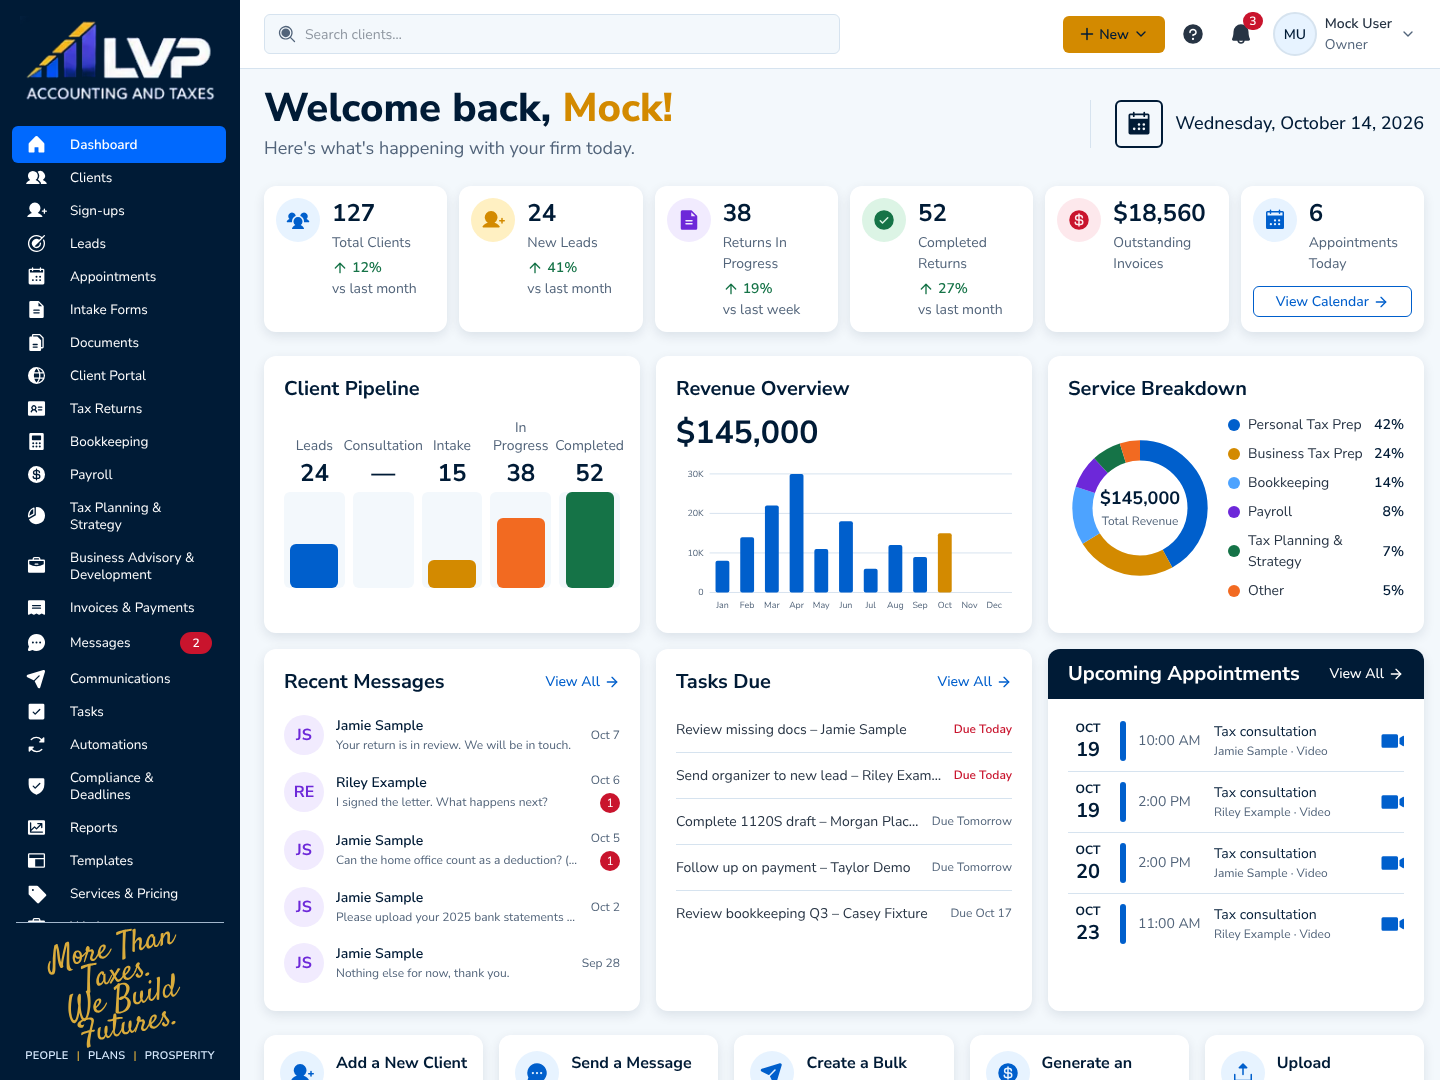
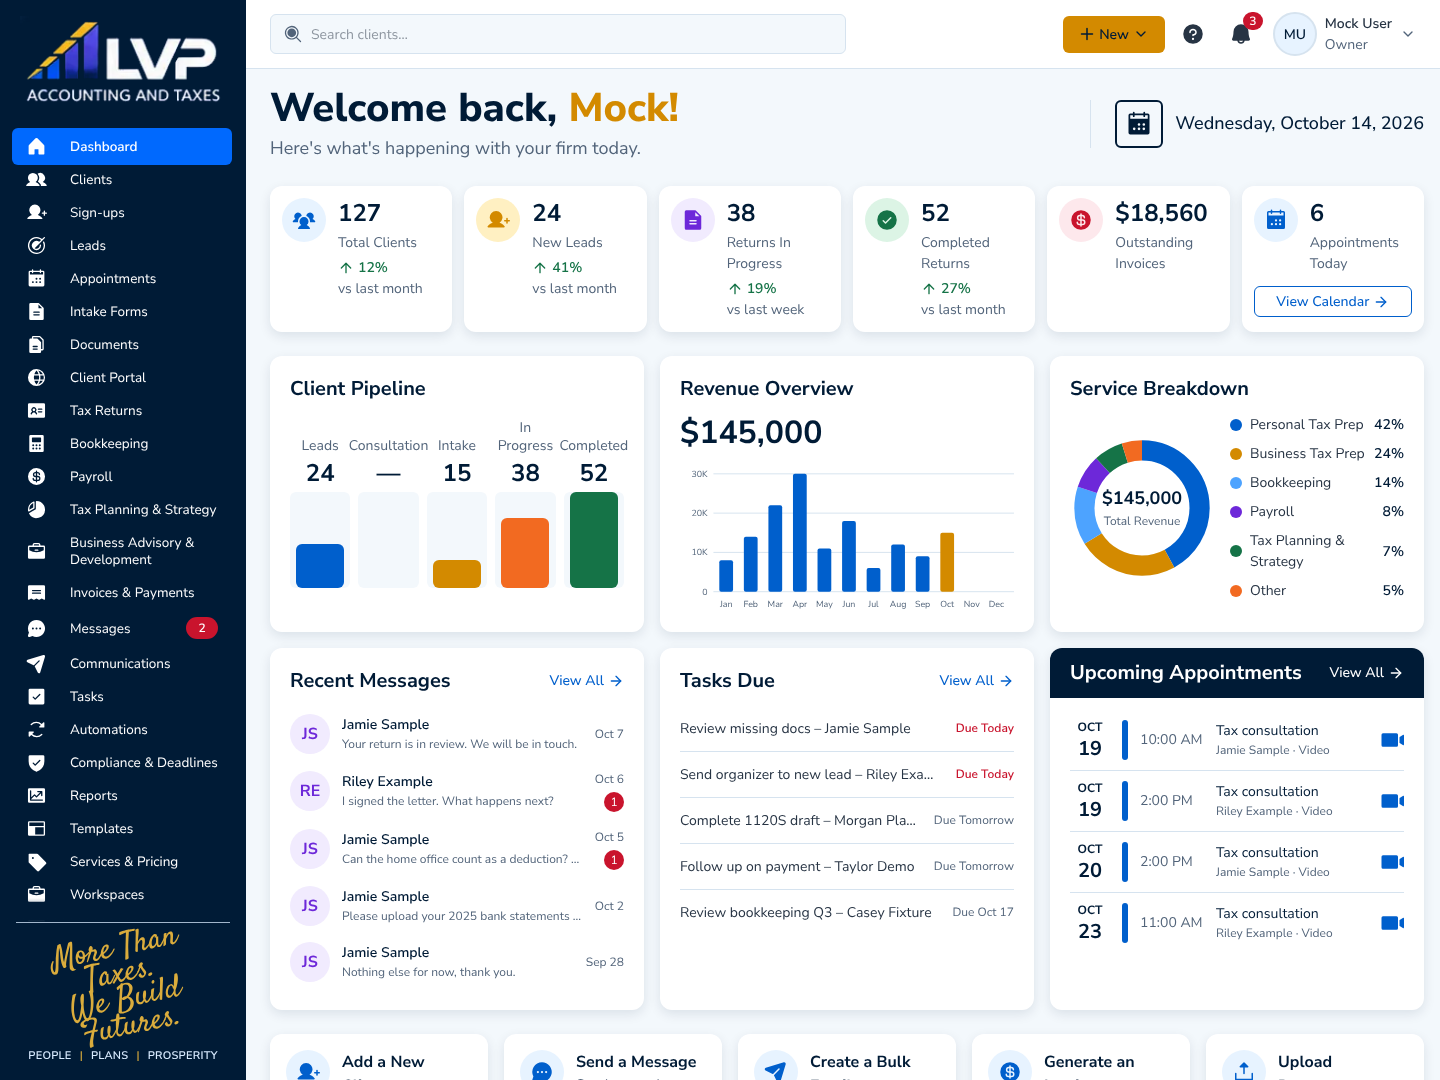
fix: firm sidebar width and scrollbar (R33)
The firm sidebar is 246 px wide, the design's width, so "Tax Planning &
Strategy" and "Compliance & Deadlines" fit on one line. The menu's
scrollbar is hidden (the menu still scrolls by wheel, trackpad, touch and
keyboard) and a 24 px fade at its bottom edge shows while items are below.

diff --git a/apps/web/src/components/app-shell/sidebar.tsx b/apps/web/src/components/app-shell/sidebar.tsx
@@ -4,6 +4,7 @@ import { ChevronDown, LogOut } from 'lucide-react';
 import Image from 'next/image';
 import Link from 'next/link';
 import { usePathname } from 'next/navigation';
+import { useEffect, useRef, useState } from 'react';
 import { useMe } from '../signed-in';
 import firmivraLogoWhite from './firmivra-logo-white.png';
 import { initials, isActive, type NavSections } from './types';
@@ -45,10 +46,28 @@ export function Sidebar({
 }) {
   const pathname = usePathname();
   const { me, signOut } = useMe();
+  // The menu's scrollbar is hidden (it looked wrong next to the navy menu), so a soft fade at its
+  // bottom edge shows while more items are below.
+  const menuRef = useRef<HTMLDivElement>(null);
+  const [moreBelow, setMoreBelow] = useState(false);
+  useEffect(() => {
+    const menu = menuRef.current;
+    if (!menu) return;
+    const update = () => setMoreBelow(menu.scrollTop + menu.clientHeight < menu.scrollHeight - 1);
+    update();
+    menu.addEventListener('scroll', update, { passive: true });
+    const observer = new ResizeObserver(update);
+    observer.observe(menu);
+    for (const child of menu.children) observer.observe(child);
+    return () => {
+      menu.removeEventListener('scroll', update);
+      observer.disconnect();
+    };
+  }, [sections]);
   return (
     <nav
       aria-label="Main"
-      className={`flex h-full flex-col bg-brand-900 text-white ${brand ? 'w-60' : 'w-72'}`}
+      className={`flex h-full flex-col bg-brand-900 text-white ${brand ? 'w-61.5' : 'w-72'}`}
     >
       {brand ? (
         <div className="shrink-0 px-5 pb-5 pt-4">
@@ -85,77 +104,87 @@ export function Sidebar({
         </div>
       )}
 
-      <div
-        data-testid="sidebar-menu"
-        className={`flex min-h-0 flex-1 flex-col gap-2 overflow-y-auto ${brand ? 'py-1' : ''}`}
-      >
-        {sections.map((items, i) => (
-          <ul
-            key={items[0]?.label ?? 'group'}
-            className={`flex flex-col ${brand ? '' : 'gap-0.5'} ${i > 0 ? 'relative mt-2 pt-4 before:absolute before:inset-x-6 before:top-0 before:border-t before:border-platform-navy-raised' : ''}`}
-          >
-            {items.map((item) => {
-              const Icon = item.icon;
-              const body = (
-                <>
-                  <Icon
-                    aria-hidden
-                    className={`shrink-0 ${brand ? 'size-[21px] -my-0.5' : 'size-6'}`}
-                  />
-                  <span className={`min-w-0 flex-1 ${brand ? '' : 'whitespace-nowrap'}`}>
-                    {item.label}
-                  </span>
-                  {item.soon ? (
-                    <span className="shrink-0 rounded-pill bg-platform-navy-raised px-2 py-0.5 text-xs text-brand-100">
-                      Soon
+      <div className="relative flex min-h-0 flex-1 flex-col">
+        <div
+          ref={menuRef}
+          data-testid="sidebar-menu"
+          className={`flex min-h-0 flex-1 flex-col gap-2 overflow-y-auto [scrollbar-width:none] [&::-webkit-scrollbar]:hidden ${brand ? 'py-1' : ''}`}
+        >
+          {sections.map((items, i) => (
+            <ul
+              key={items[0]?.label ?? 'group'}
+              className={`flex flex-col ${brand ? '' : 'gap-0.5'} ${i > 0 ? 'relative mt-2 pt-4 before:absolute before:inset-x-6 before:top-0 before:border-t before:border-platform-navy-raised' : ''}`}
+            >
+              {items.map((item) => {
+                const Icon = item.icon;
+                const body = (
+                  <>
+                    <Icon
+                      aria-hidden
+                      className={`shrink-0 ${brand ? 'size-[21px] -my-0.5' : 'size-6'}`}
+                    />
+                    <span className={`min-w-0 flex-1 ${brand ? '' : 'whitespace-nowrap'}`}>
+                      {item.label}
                     </span>
-                  ) : null}
-                  {item.badge ? (
-                    <span
-                      className={`min-w-8 shrink-0 rounded-pill px-2 py-0.5 text-center text-xs font-semibold ${brand ? 'bg-danger' : 'bg-brand-500'}`}
+                    {item.soon ? (
+                      <span className="shrink-0 rounded-pill bg-platform-navy-raised px-2 py-0.5 text-xs text-brand-100">
+                        Soon
+                      </span>
+                    ) : null}
+                    {item.badge ? (
+                      <span
+                        className={`min-w-8 shrink-0 rounded-pill px-2 py-0.5 text-center text-xs font-semibold ${brand ? 'bg-danger' : 'bg-brand-500'}`}
+                      >
+                        {item.badge}
+                      </span>
+                    ) : null}
+                  </>
+                );
+                const row = `flex items-center ${brand ? 'gap-5.75 px-3.5 py-2.5 text-[13.5px] leading-[17px]' : 'gap-2.5 px-6 py-3 text-base'}`;
+                if (!item.href) {
+                  return (
+                    <li
+                      key={item.label}
+                      aria-disabled="true"
+                      className={`${row} text-brand-100 ${brand ? '-my-0.5' : ''}`}
                     >
-                      {item.badge}
-                    </span>
-                  ) : null}
-                </>
-              );
-              const row = `flex items-center ${brand ? 'gap-5.75 px-3.5 py-2.5 text-[13.5px] leading-[17px]' : 'gap-2.5 px-6 py-3 text-base'}`;
-              if (!item.href) {
+                      {body}
+                    </li>
+                  );
+                }
+                const active = isActive(pathname, item.href);
                 return (
-                  <li
-                    key={item.label}
-                    aria-disabled="true"
-                    className={`${row} text-brand-100 ${brand ? '-my-0.5' : ''}`}
-                  >
-                    {body}
+                  <li key={item.label} className={brand ? '-my-0.5' : undefined}>
+                    <Link
+                      href={item.href}
+                      onClick={onNavigate}
+                      aria-current={active ? 'page' : undefined}
+                      className={
+                        row +
+                        (brand
+                          ? ' ml-3 mr-3.5 rounded-control ' +
+                            (active ? 'bg-nav-active font-semibold' : 'hover:bg-navigation-hover')
+                          : ' mr-3 rounded-r-control border-l-4 ' +
+                            (active
+                              ? 'border-info bg-navigation-hover font-semibold'
+                              : 'border-transparent hover:bg-navigation-hover'))
+                      }
+                    >
+                      {body}
+                    </Link>
                   </li>
                 );
-              }
-              const active = isActive(pathname, item.href);
-              return (
-                <li key={item.label} className={brand ? '-my-0.5' : undefined}>
-                  <Link
-                    href={item.href}
-                    onClick={onNavigate}
-                    aria-current={active ? 'page' : undefined}
-                    className={
-                      row +
-                      (brand
-                        ? ' ml-3 mr-3.5 rounded-control ' +
-                          (active ? 'bg-nav-active font-semibold' : 'hover:bg-navigation-hover')
-                        : ' mr-3 rounded-r-control border-l-4 ' +
-                          (active
-                            ? 'border-info bg-navigation-hover font-semibold'
-                            : 'border-transparent hover:bg-navigation-hover'))
-                    }
-                  >
-                    {body}
-                  </Link>
-                </li>
-              );
-            })}
-          </ul>
-        ))}
+              })}
+            </ul>
+          ))}
+        </div>
+        {moreBelow ? (
+          <div
+            aria-hidden
+            data-testid="sidebar-menu-fade"
+            className="pointer-events-none absolute inset-x-0 bottom-0 h-6 bg-gradient-to-t from-brand-900 to-transparent"
+          />
+        ) : null}
       </div>
 
       {brand ? (

diff --git a/apps/web/e2e/mock/r33-sidebar-menu.spec.ts b/apps/web/e2e/mock/r33-sidebar-menu.spec.ts
@@ -1,0 +1,106 @@
+import { expect, test } from '@playwright/test';
+
+// The firm sidebar (246 px, the design's width): its menu keeps scrolling with the scrollbar
+// hidden, and a soft fade at its bottom edge shows while more items are below.
+const port = String(Number(process.env['WEB_PORT'] ?? '3000') + 1);
+const app = (path: string) => `http://app.localhost:${port}${path}`;
+
+test.use({ viewport: { width: 1280, height: 720 }, hasTouch: true });
+
+test('the menu has no scrollbar, and nothing else loses its scrollbar', async ({ page }) => {
+  await page.goto(app('/'));
+  const menu = page.getByTestId('sidebar-menu');
+  await expect(menu).toBeVisible();
+  const style = await menu.evaluate((el: HTMLElement) => ({
+    width: getComputedStyle(el).scrollbarWidth,
+    gutter: el.offsetWidth - el.clientWidth,
+    scrolls: el.scrollHeight > el.clientHeight,
+  }));
+  expect(style).toEqual({ width: 'none', gutter: 0, scrolls: true });
+  // Only the menu: the page and the main area keep the browser's own scrollbars.
+  expect(await page.evaluate(() => getComputedStyle(document.documentElement).scrollbarWidth)).toBe(
+    'auto',
+  );
+  expect(await page.locator('main').evaluate((el) => getComputedStyle(el).scrollbarWidth)).toBe(
+    'auto',
+  );
+});
+
+test('the menu still scrolls by wheel, keyboard and touch, with a fade while items are below', async ({
+  page,
+}) => {
+  await page.goto(app('/'));
+  const nav = page.getByRole('navigation', { name: 'Main' });
+  const menu = page.getByTestId('sidebar-menu');
+  const fade = page.getByTestId('sidebar-menu-fade');
+  const top = () => menu.evaluate((el: HTMLElement) => el.scrollTop);
+  await expect(fade).toBeVisible();
+  expect(await top()).toBe(0);
+  const fadeBox = await fade.boundingBox();
+  const menuBox = await menu.boundingBox();
+  expect(fadeBox?.height).toBe(24);
+  expect((fadeBox?.y ?? 0) + (fadeBox?.height ?? 0)).toBeCloseTo(
+    (menuBox?.y ?? 0) + (menuBox?.height ?? 0),
+    0,
+  );
+
+  // Mouse wheel (and trackpad: the same wheel events).
+  await page.mouse.move((menuBox?.x ?? 0) + 100, (menuBox?.y ?? 0) + 100);
+  await page.mouse.wheel(0, 200);
+  await expect.poll(top).toBeGreaterThan(100);
+  await menu.evaluate((el) => el.scrollTo(0, 0));
+
+  // Keyboard: Tab to a link below the fold scrolls it into view, arrow keys scroll further.
+  const links = nav.getByTestId('sidebar-menu').getByRole('link');
+  await links.first().focus();
+  for (let i = 0; i < 14; i++) await page.keyboard.press('Tab');
+  await expect.poll(top).toBeGreaterThan(0);
+  const afterTab = await top();
+  await page.keyboard.press('ArrowDown');
+  await expect.poll(top).toBeGreaterThan(afterTab);
+  await menu.evaluate((el) => el.scrollTo(0, 0));
+
+  // Touch: a swipe up.
+  const client = await page.context().newCDPSession(page);
+  const x = (menuBox?.x ?? 0) + 100;
+  let y = (menuBox?.y ?? 0) + 380;
+  await client.send('Input.dispatchTouchEvent', { type: 'touchStart', touchPoints: [{ x, y }] });
+  for (let i = 0; i < 12; i++) {
+    y -= 20;
+    await client.send('Input.dispatchTouchEvent', { type: 'touchMove', touchPoints: [{ x, y }] });
+    await page.waitForTimeout(16);
+  }
+  await client.send('Input.dispatchTouchEvent', { type: 'touchEnd', touchPoints: [] });
+  await expect.poll(top).toBeGreaterThan(100);
+
+  // At the end of the list the fade is gone and the last item is visible.
+  await menu.evaluate((el) => el.scrollTo(0, el.scrollHeight));
+  await expect(fade).toHaveCount(0);
+  await expect(links.last()).toBeInViewport();
+  // And it is back as soon as the list moves up.
+  await menu.evaluate((el) => el.scrollTo(0, 0));
+  await expect(fade).toBeVisible();
+});
+
+test('the mobile menu opens with the same sidebar and scrolls', async ({ page }) => {
+  await page.setViewportSize({ width: 390, height: 700 });
+  await page.goto(app('/'));
+  await page.getByRole('button', { name: /menu/i }).first().click();
+  const menu = page.getByTestId('sidebar-menu').last();
+  await expect(menu).toBeVisible();
+  expect(await menu.evaluate((el) => getComputedStyle(el).scrollbarWidth)).toBe('none');
+  await menu.evaluate((el) => el.scrollTo(0, el.scrollHeight));
+  await expect(page.getByRole('link', { name: 'Settings' })).toBeInViewport();
+  expect((await page.getByRole('navigation', { name: 'Main' }).boundingBox())?.width).toBe(246);
+});
+
+test('the main area, header and footer sit next to the 246 px sidebar', async ({ page }) => {
+  await page.setViewportSize({ width: 1440, height: 900 });
+  await page.goto(app('/'));
+  const header = await page.getByRole('banner').boundingBox();
+  const footer = await page.getByRole('contentinfo').boundingBox();
+  expect(header?.x).toBe(246);
+  expect(footer?.x).toBe(246);
+  expect((header?.x ?? 0) + (header?.width ?? 0)).toBe(1440);
+  expect(await page.evaluate(() => document.documentElement.scrollWidth)).toBe(1440);
+});

diff --git a/apps/web/e2e/mock/r28-logo.spec.ts b/apps/web/e2e/mock/r28-logo.spec.ts
@@ -62,13 +62,13 @@ test('the shell shows the dark logo, the slogan and motto, and the light logo in
   await page.setViewportSize({ width: 1440, height: 900 });
   await page.goto(app('/'));
   const sidebar = page.getByRole('navigation', { name: 'Main' });
-  expect((await sidebar.boundingBox())?.width).toBe(240);
+  expect((await sidebar.boundingBox())?.width).toBe(246);
   const logo = sidebar.locator('img');
   await expect(logo).toBeVisible();
-  // The logo fills the inner width (240 px minus 20 px each side), left aligned, up to 100 px high.
+  // The logo fills the inner width (246 px minus 20 px each side), left aligned, up to 100 px high.
   const box = await logo.boundingBox();
   expect(box?.x).toBe(20);
-  expect(box?.width).toBe(200);
+  expect(box?.width).toBe(206);
   expect(box?.height).toBeLessThanOrEqual(100);
   const slogan = page.getByTestId('firm-slogan');
   await expect(slogan).toContainText('More Than');
@@ -129,9 +129,9 @@ for (const [name, file] of [
       );
       const box = await logo.boundingBox();
       expect(box?.x).toBe(20);
-      expect(box?.width).toBe(200);
+      expect(box?.width).toBe(206);
       // Limited by the width, or by 100 px when the logo is squarer.
-      expect(box?.height).toBeCloseTo(Math.min(100, 200 * natural), 0);
+      expect(box?.height).toBeCloseTo(Math.min(100, 206 * natural), 0);
       // Never more than 16 px above it and 20 px below it, as in the design.
       const first = await page.getByTestId('sidebar-menu').getByRole('link').first().boundingBox();
       expect(box?.y).toBe(16);

diff --git a/apps/web/src/components/app-shell/app-shell.tsx b/apps/web/src/components/app-shell/app-shell.tsx
@@ -72,7 +72,7 @@ export function AppShell({
       ) : null}
 
       <div
-        className={`flex min-h-screen flex-col md:[&>header]:pr-4 ${brand ? 'md:pl-60' : 'md:pl-72'}`}
+        className={`flex min-h-screen flex-col md:[&>header]:pr-4 ${brand ? 'md:pl-61.5' : 'md:pl-72'}`}
       >
         <Header
           search={search}
